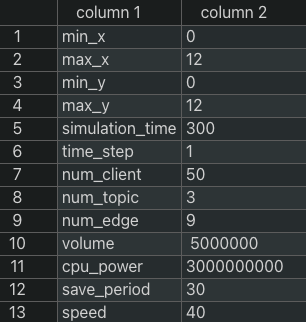
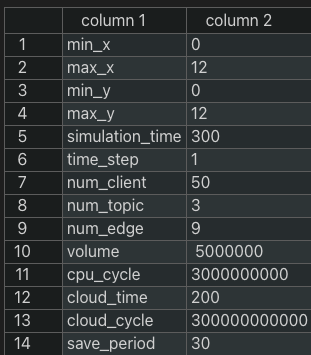
README の更新

Changed region(s): [[0.0, 0.0, 1.0, 1.0]]

diff --git a/src/util.py b/src/util.py
@@ -1,4 +1,4 @@
-from data import Data_topic, Data_traking, Data_solution
+from data import DataTopic, DataTraking, DataSolution
 import random
 import math
 import sys
@@ -6,7 +6,7 @@ import pandas as pd
 import numpy as np
 
 from edge import Edge
-from topic import Topic_uniform, Topic_local, Topic_incident
+from topic import TopicUniform, TopicLocal, TopicIncident
 
 
 #  index ファイルの生成
@@ -30,7 +30,7 @@ def read_config(path):
     num_topic = int(f.readline().split(",")[1])
     num_edge = int(f.readline().split(",")[1])
     volume = int(f.readline().split(",")[1])
-    cpu_power = int(f.readline().split(",")[1])
+    cpu_cycle = int(f.readline().split(",")[1])
     cloud_time = int(f.readline().split(",")[1])
     cloud_cycle = int(f.readline().split(",")[1])
     save_period = int(f.readline().split(",")[1])
@@ -38,7 +38,7 @@ def read_config(path):
 
     parameter = { 'min_x' : min_x, 'max_x' : max_x, 'min_y' : min_y, 'max_y' : max_y, 'simulation_time' : simulation_time, 'time_step' : time_step}
     parameter1 = { 'num_client' : num_client, 'num_topic' : num_topic, 'num_edge' : num_edge}
-    parameter2 = { 'volume' : volume, 'cpu_power' : cpu_power, 'cloud_time' : cloud_time, 'cloud_cycle' : cloud_cycle, 'save_period' : save_period, 'speed' : speed}
+    parameter2 = { 'volume' : volume, 'cpu_power' : cpu_cycle, 'cloud_time' : cloud_time, 'cloud_cycle' : cloud_cycle, 'save_period' : save_period, 'speed' : speed}
 
     parameter.update(parameter1)
     parameter.update(parameter2)
@@ -84,11 +84,11 @@ def read_topic(path):
         base_y = data['base_y']
 
         if role == 0:
-            topic = Topic_uniform(id, save_period, publish_rate=publish_rate, data_size=data_size, require_cycle=require_cycle)
+            topic = TopicUniform(id, save_period, publish_rate=publish_rate, data_size=data_size, require_cycle=require_cycle)
         elif role == 1:
-            topic = Topic_local(id, save_period, publish_rate=publish_rate, data_size=data_size, require_cycle=require_cycle, base_point=(base_x, base_y))
+            topic = TopicLocal(id, save_period, publish_rate=publish_rate, data_size=data_size, require_cycle=require_cycle, base_point=(base_x, base_y))
         elif role == 2:
-            topic = Topic_incident(id, save_period, publish_rate=publish_rate, data_size=data_size, require_cycle=require_cycle)
+            topic = TopicIncident(id, save_period, publish_rate=publish_rate, data_size=data_size, require_cycle=require_cycle)
         else:
             sys.exit("追加されていない role です。関数 read_topic を修正して下さい")
 
@@ -111,7 +111,7 @@ def read_data_set_traking(path):
         x = float(data['x'])
         y = float(data['y'])
 
-        data_traking = Data_traking(id, time, x, y)
+        data_traking = DataTraking(id, time, x, y)
 
         data_set_traking.append(data_traking)
 
@@ -143,7 +143,7 @@ def read_data_set_topic(path, num_topic):
             if tmp == True:
                 sub_topic[i] = True
                 
-        data_topic = Data_topic(id, time, x, y, pub_topic, sub_topic)
+        data_topic = DataTopic(id, time, x, y, pub_topic, sub_topic)
 
         data_set_topic.append(data_topic)
 
@@ -173,7 +173,7 @@ def read_data_set_solution(data_path, config_path):
 
         sub_edge = int(float(l.pop(0)))
 
-        data_solution = Data_solution(id, time, x, y, pub_edge, sub_edge)
+        data_solution = DataSolution(id, time, x, y, pub_edge, sub_edge)
 
         data_set_solution.append(data_solution)
 
@@ -181,7 +181,7 @@ def read_data_set_solution(data_path, config_path):
 
 
 # 指定したファイルにデータを一行追加
-def writeTrakingCSV(filename, data_traking):
+def write_traking_csv(filename, data_traking):
     file = open(filename, "a")
 
     file.write(f"{data_traking.id},{data_traking.time},{data_traking.x},{data_traking.y}\n")
@@ -190,7 +190,7 @@ def writeTrakingCSV(filename, data_traking):
 
 
 # 指定したファイルにデータを一行追加
-def writeAssginCSV(filename, data_topic):
+def write_assgin_csv(filename, data_topic):
     file = open(filename, "a")
 
     file.write(f"{data_topic.id},{data_topic.time},{data_topic.x},{data_topic.y}")
@@ -207,7 +207,7 @@ def writeAssginCSV(filename, data_topic):
 
 
 #  クライアントの割り当て情報を一行追記
-def writeSolutionCSV(filename, id, time, x, y, pub_edge, sub_edge, num_topic):
+def write_solution_csv(filename, id, time, x, y, pub_edge, sub_edge, num_topic):
     file = open(filename, "a")
 
     file.write(f"{id},{time},{x},{y}")
@@ -223,7 +223,7 @@ def writeSolutionCSV(filename, id, time, x, y, pub_edge, sub_edge, num_topic):
 
 
 #  edge の情報を書き出し
-def writeEdgeCSV(filename, all_edge):
+def write_edge_csv(filename, all_edge):
     file = open(filename, "w")
 
     file.write("id,x,y,volume,cpu_power\n")
@@ -235,7 +235,7 @@ def writeEdgeCSV(filename, all_edge):
 
 
 #  topic の情報を書き出し
-def writeTopicCSV(filename, all_topic):
+def write_topic_csv(filename, all_topic):
     file = open(filename, "w")
 
     file.write("id,role,save_period,publish_rate,data_size,require_cycle,base_x,base_y\n")

diff --git a/src/generator.py b/src/generator.py
@@ -1,9 +1,8 @@
 import util
-from client import Client_traking
-from client import Client_topic
-from data import Data_traking, Data_topic
+from client import ClientTraking, ClientTopic
+from data import DataTraking, DataTopic
 from edge import Edge
-from topic import Topic_uniform, Topic_local, Topic_incident
+from topic import TopicUniform, TopicLocal, TopicIncident
 import random
 import pandas as pd
 import numpy as np
@@ -58,7 +57,7 @@ def generate_traking(index_file, config_file, out_file, seed=0):
         # 各クライアントの初期位置の決定
         init_x, init_y = util.init_point(min_x, max_x, min_y, max_y)
 
-        c = Client_traking(id, init_x, init_y, speed)
+        c = ClientTraking(id, init_x, init_y, speed)
 
         all_client.append(c)
 
@@ -68,7 +67,7 @@ def generate_traking(index_file, config_file, out_file, seed=0):
             # クライアントをランダムに移動させる
             c.random_walk(time_step, min_x, max_x, min_y, max_y)
 
-            util.writeTrakingCSV(out_file, Data_traking(c.id, time, c.x, c.y))
+            util.write_traking_csv(out_file, DataTraking(c.id, time, c.x, c.y))
 
 
 # トラッキングデータに pub/sub 関係を割り当てる
@@ -144,11 +143,11 @@ def assign_topic(index_file, out_file, seed=0):
                         init_sub_topic[t.id] = True
                         flag = False
 
-            c_topic = Client_topic(data_traking.id, data_traking.x, data_traking.y, init_pub_topic, init_sub_topic)
+            c_topic = ClientTopic(data_traking.id, data_traking.x, data_traking.y, init_pub_topic, init_sub_topic)
 
             all_client.append(c_topic)
 
-            util.writeAssginCSV(out_file, Data_topic(c_topic.id, 0, c_topic.x, c_topic.y, c_topic.pub_topic, c_topic.sub_topic))
+            util.write_assgin_csv(out_file, DataTopic(c_topic.id, 0, c_topic.x, c_topic.y, c_topic.pub_topic, c_topic.sub_topic))
 
         # 時間を1ステップずつ進めにがら、pub/sub 関係を決める
         for time in range(time_step, simulation_time, time_step):
@@ -166,7 +165,7 @@ def assign_topic(index_file, out_file, seed=0):
 
                 c.select_topic(all_topic)
 
-                util.writeAssginCSV(out_file, Data_topic(c.id, time, c.x, c.y, c.pub_topic, c.sub_topic))
+                util.write_assgin_csv(out_file, DataTopic(c.id, time, c.x, c.y, c.pub_topic, c.sub_topic))
 
 
 # エッジサーバの生成
@@ -198,7 +197,7 @@ def generate_edge(index_file, config_file, out_file):
             y = 2 + 4*i
             all_edge.append(Edge(id, x, y, volume, cpu_power))
     
-    util.writeEdgeCSV(out_file, all_edge)
+    util.write_edge_csv(out_file, all_edge)
 
 
 # トピックの生成
@@ -227,7 +226,7 @@ def generate_topic(index_file, config_file, out_file):
     # トピックの生成
     #  作成したい topic に応じてここを変える
     for i in range(num_topic):
-        t = Topic_uniform(i, save_period)
+        t = TopicUniform(i, save_period)
         all_topic.append(t)
 
-    util.writeTopicCSV(out_file, all_topic)
+    util.write_topic_csv(out_file, all_topic)

diff --git a/src/main.py b/src/main.py
@@ -6,18 +6,18 @@ from solve import solve_near_edge
 
 index_file = "../dataset/data/index/readme.csv"
 config_file = "../dataset/config/readme_config.csv"
-traking_file = "../dataset/data/traking/readme_traking.csv"
-assign_file = "../dataset/data/assign/readme_assgin.csv"
-edge_file = "../dataset/data/edge/readme_edge.csv"
-topic_file = "../dataset/data/topic/readme_edge.csv"
-animation_file = "../dataset/animation/readme_animation.gif"
+traking_file = "../dataset/data/traking/test.csv"
+assign_file = "../dataset/data/assign/test.csv"
+edge_file = "../dataset/data/edge/test.csv"
+topic_file = "../dataset/data/topic/test.csv"
+animation_file = "../dataset/animation/test.gif"
 
 generate_traking(index_file, config_file, traking_file, seed=41176121)
 
-#generate_edge(index_file, config_file, edge_file)
+generate_edge(index_file, config_file, edge_file)
 
 generate_topic(index_file, config_file, topic_file)
 
-assignTopic(index_file, assign_file)
+assign_topic(index_file, assign_file)
 
 create_single_topic_animation(index_file, animation_file, 20)

diff --git a/src/topic.py b/src/topic.py
@@ -32,7 +32,7 @@ class Topic(metaclass = ABCMeta):
 
 
 #  一様分布の topic クラス
-class Topic_uniform(Topic):
+class TopicUniform(Topic):
 
     def __init__(self, id, save_period, publish_rate=None, data_size=None, require_cycle=None):
         super().__init__(id, save_period, publish_rate, data_size, require_cycle)
@@ -47,7 +47,7 @@ class Topic_uniform(Topic):
 
 
 #  局所的に分布する topic クラス
-class Topic_local(Topic):
+class TopicLocal(Topic):
 
     def __init__(self, id, save_period, radius, publish_rate=None, data_size=None, require_cycle=None, base_point=None, min_x=0, max_x=12, min_y=0, max_y=12):
         super().__init__(id, save_period, publish_rate, data_size, require_cycle)
@@ -73,7 +73,7 @@ class Topic_local(Topic):
 
 
 #  突発的に発生する topic クラス
-class Topic_incident(Topic):
+class TopicIncident(Topic):
 
     def __init__(self, id, save_period, publish_rate=None, data_size=None, require_cycle=None):
         super().__init__(id, save_period, publish_rate, data_size, require_cycle)

diff --git a/src/data.py b/src/data.py
@@ -1,5 +1,5 @@
 #  トラッキングデータを生成する際に使用する Data クラス
-class Data_traking:
+class DataTraking:
 
     def __init__(self, id, time, x, y):
         self.id = id
@@ -9,7 +9,7 @@ class Data_traking:
 
 
 #  pub/sub 関係を決定する際に使用する Data クラス
-class Data_topic:
+class DataTopic:
 
     def __init__(self, id, time, x, y, pub_topic, sub_topic):
         self.id = id
@@ -21,7 +21,7 @@ class Data_topic:
 
 
 #  トピック割り当てを決定する際に使用する Data クラス
-class Data_solution:
+class DataSolution:
 
     def __init__(self, id, time, x, y, pub_edge, sub_edge):
         self.id = id

diff --git a/src/client.py b/src/client.py
@@ -5,7 +5,7 @@ import sys
 
 
 #  トラッキングデータを生成する際に使用する Client クラス
-class Client_traking:
+class ClientTraking:
     
     def __init__(self, id, x, y, speed):
         self.id = id
@@ -55,7 +55,7 @@ class Client_traking:
 
 
 #  トラッキングデータにトピックを割り当てる際に使用する Client トピック
-class Client_topic:
+class ClientTopic:
     
     def __init__(self, id, x, y, pub_topic, sub_topic):
         self.id = id

diff --git a/src/solve.py b/src/solve.py
@@ -58,4 +58,4 @@ def solve_near_edge(index_file, out_file):
                     pub_edge.append(min_id)
                     sub_edge.append(min_id)
 
-            util.writeSolutionCSV(out_file, id, time, data.x, data.y, pub_edge, sub_edge, num_topic)
+            util.write_solution_csv(out_file, id, time, data.x, data.y, pub_edge, sub_edge, num_topic)
